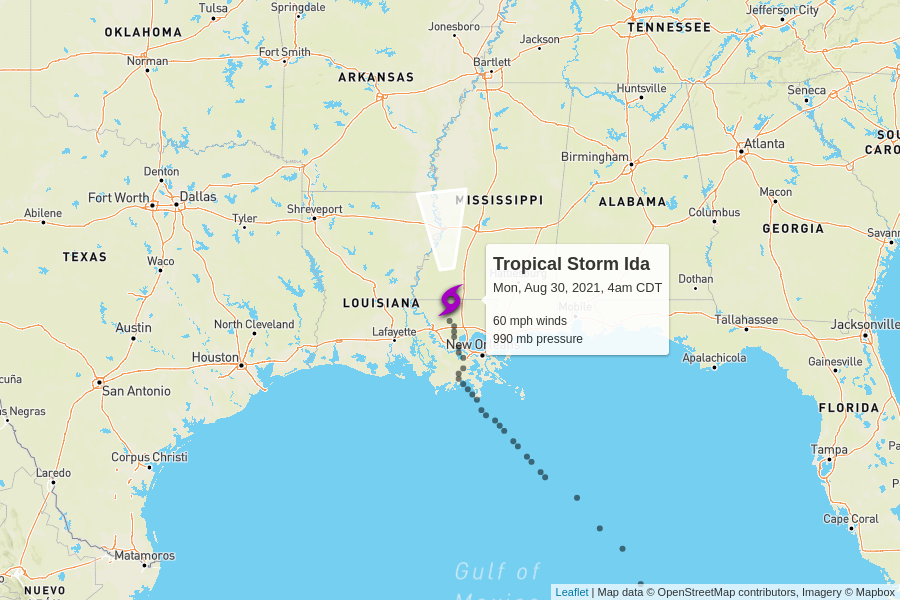
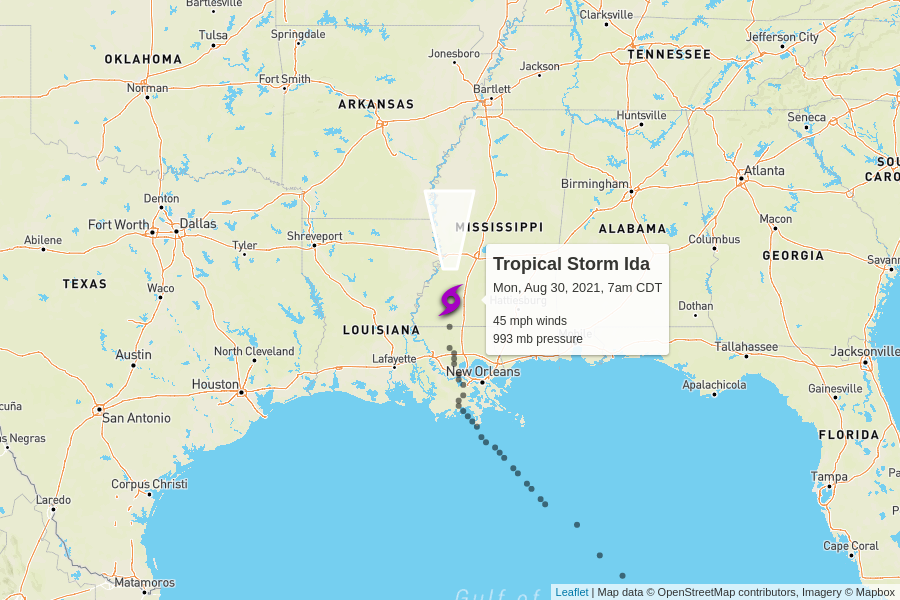
automatic update

diff --git a/docs/index.html b/docs/index.html
@@ -100,7 +100,7 @@
         <td colspan="6" class="storm category-0">
           <h2>
             Tropical Storm Ida
-            <p class="updated">last updated <span data-time>2021-08-30T09:00:00.000Z</span></p>
+            <p class="updated">last updated <span data-time>2021-08-30T12:00:00.000Z</span></p>
           </h2>
         </td>
       </tr>
@@ -115,12 +115,12 @@
       </tr>
       <tr>
         <td class="spacer"></td>
-        <td>60 mph</td>
-        <td>990 mb</td>
+        <td>45 mph</td>
+        <td>993 mb</td>
         <td>
           8 mph to the north
           <br/>
-          <span style="display: inline-block; font-size: 1.5em; rotate: 355deg;">↑</span>
+          <span style="display: inline-block; font-size: 1.5em; rotate: 360deg;">↑</span>
         </td>
         <td><a href="https://raw.githubusercontent.com/mgwalker/atlantic-hurricanes/main/data/csv/AL092021.csv">AL092021.csv</a></td>
         <td><a href="https://www.nhc.noaa.gov/archive/2021/IDA.shtml?">NHC advisories</a></td>
